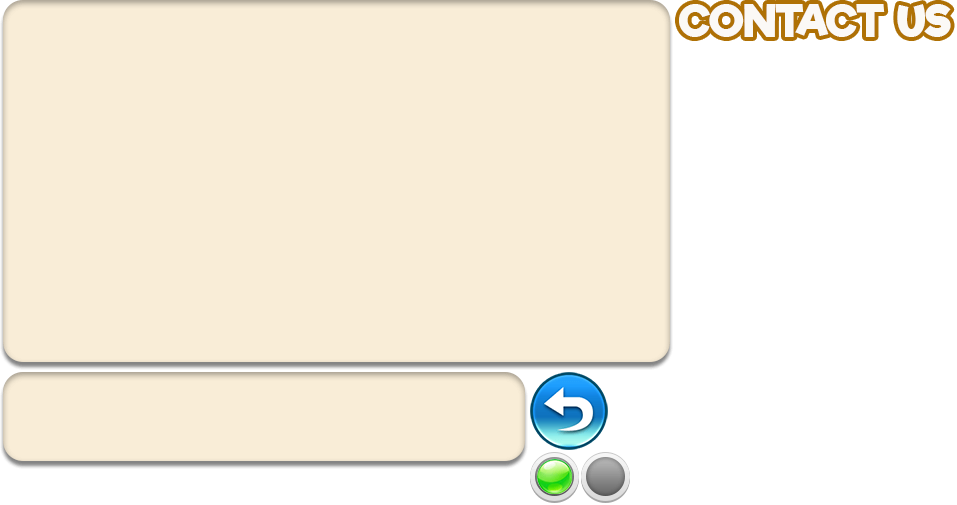
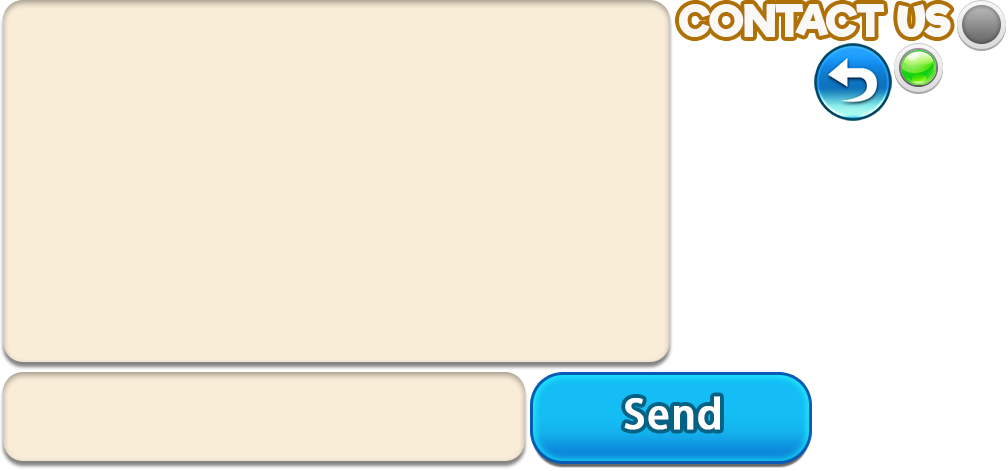
form

Changed region(s): [[0.0, 0.0, 1.0, 1.0]]

diff --git a/src/siene/my/contact-us/contact-us.component.ts b/src/siene/my/contact-us/contact-us.component.ts
@@ -1,14 +1,16 @@
+import { trace } from '../../../service/gameUILogic/trace';
 import { BitmapData } from '../../../basicUI/basic-ui.module';
-import { MainPage, Loading, Trigger, WebPages, User, GM } from '../../../service/dinomao-game.module';
+import { MainPage, Loading, Trigger, WebPages, User, GM, TextData } from '../../../service/dinomao-game.module';
 import { HttpClient } from '@angular/common/http';
 import { Component } from '@angular/core';
+import { FormBuilder, FormGroup } from '@angular/forms';
 /*
  * @Description: 
  * @version: 1.0
  * @Author: Wayne Yu
  * @Date: 2021-10-12 11:32:06
  * @LastEditors: Wayne Yu
- * @LastEditTime: 2021-10-12 15:15:07
+ * @LastEditTime: 2021-10-13 11:20:57
  */
 
 @Component({
@@ -21,12 +23,21 @@ export class ContactUsComponent extends MainPage {
   title!: BitmapData;
   submitBtn!: BitmapData;
 
-  emailAddress: string = "";
-  userName: string = "";
+  formReportItems: FormGroup;
+
+  emailText!: TextData;
+  nameText!: TextData;
+  inputBg1!: BitmapData;
+  inputBg2!: BitmapData;
   
-  constructor(public http: HttpClient ) {
+  constructor(public http: HttpClient, private formBuilder: FormBuilder) {
     super(http);
     this.textureUrl = "assets/contact/contact.json";
+
+    this.formReportItems = this.formBuilder.group({
+      emailAddress: User.instance.email ? User.instance.email: "",
+      userName: User.instance.name
+    });
   }
 
   initUI() {
@@ -34,9 +45,13 @@ export class ContactUsComponent extends MainPage {
 
     this.backBtn = this.textureData.getTexture( "btn_return", 30, 135 );
     this.title = this.textureData.getTexture( "CONTACT US", 265, 147 );
+    this.submitBtn = this.textureData.getTexture( "btn_send", 234, 1450 );
 
-    if( User.instance.email ) this.emailAddress = User.instance.email;
-    this.userName = User.instance.name;
+    this.inputBg1 = this.textureData.getTexture( "bg1", 150, 0 );
+    this.inputBg2 = this.textureData.getTexture( "bg1", 150, 100 );
+
+    this.emailText = this.textureJson.email;
+    this.nameText = this.textureJson.name;
   }
 
   gotoBack(){
@@ -45,8 +60,9 @@ export class ContactUsComponent extends MainPage {
 
   submit(){
     let exp: RegExp = /^\w+([-+.]\w+)*@\w+([-.]\w+)*\.\w+([-.]\w+)*$/;
-    let emailText = document.getElementById( "emailText" );
-    let emailStr = (emailText as HTMLInputElement).value;
+    trace.log( this.formReportItems.value )
+    let emailStr = this.formReportItems.value.emailAddress;
+    trace.log( emailStr );
     let nameText = document.getElementById( "nameText" );
     let nameStr = (nameText as HTMLInputElement).value;
     let inputText = document.getElementById( "inputText" );
@@ -79,5 +95,9 @@ export class ContactUsComponent extends MainPage {
           }
       }));
     }
+  }
+
+  onSubmit(){
+    
   }
 }

diff --git a/src/siene/my/contact-us/contact-us.component.html b/src/siene/my/contact-us/contact-us.component.html
@@ -4,31 +4,31 @@
  * @Author: Wayne Yu
  * @Date: 2021-10-12 11:32:06
  * @LastEditors: Wayne Yu
- * @LastEditTime: 2021-10-12 15:00:42
+ * @LastEditTime: 2021-10-13 11:15:33
 -->
 <div class="contactUsPage" [style.height]="pageHeight + 'px'" [style.background-image]="'url(assets/loading_ui/loading_bg.jpg)'">
   <app-image [imgData]="title"></app-image>
   <app-image-button [imgData]="backBtn" (itemClick)="gotoBack()"></app-image-button>
   <app-image-button [imgData]="submitBtn" (itemClick)="submit()"></app-image-button>
-  <!-- <div class="textShadow">
-    <app-popup-text-field [textData]="gameNameText" [text]="gameNameString"></app-popup-text-field>
-    <app-popup-text-field [textData]="versionText" [text]="versionString"></app-popup-text-field>
-  </div> -->
-  <div class="leftText">
-    <p>email:</p>
-    <p>name:</p>
-  </div>
-  <div class="inputArea">
-    <p><input type="text" class="input" value="{{emailAddress}}" id="emailText"></p>
-    <p><input type="text" class="input" value="{{userName}}" id="nameText"></p>
-  </div>
-  <div class="choise">
-    <p style="text-align: center;">saddadasdsad</p>
-    <p><input type="checkbox" class="checkbox">dawdawaw</p>
-    <p><input type="checkbox" class="checkbox">sdasdasd</p>
-    <p><input type="checkbox" class="checkbox">sfsfasad</p>
-    <p><input type="checkbox" class="checkbox">sfasfsaf</p>
-    <p>sfasfsaf</p>
-    <p><input type="text" class="textArea" id="inputText"></p>
-  </div>
+  <form [formGroup]="formReportItems" (ngSubmit)="onSubmit()">
+    <div class="leftText">
+      <app-popup-text-field [textData]="emailText" [text]="'Email'"></app-popup-text-field>
+      <app-popup-text-field [textData]="nameText" [text]="'Name'"></app-popup-text-field>
+      <app-image [imgData]="inputBg1"></app-image>
+      <app-image [imgData]="inputBg2"></app-image>
+    </div>
+    <div class="inputArea">
+      <p><input type="text" class="input" formControlName="emailAddress" id="emailTextInput"></p>
+      <p><input type="text" class="input" formControlName="userName" id="nameTextInput"></p>
+    </div>
+    <div class="choise">
+      <p style="text-align: center;">saddadasdsad</p>
+      <p><input type="checkbox" class="checkbox">dawdawaw</p>
+      <p><input type="checkbox" class="checkbox">sdasdasd</p>
+      <p><input type="checkbox" class="checkbox">sfsfasad</p>
+      <p><input type="checkbox" class="checkbox">sfasfsaf</p>
+      <p>sfasfsaf</p>
+      <p><input type="text" class="textArea" id="inputText"></p>
+    </div>
+  </form>
 </div>

diff --git a/src/app/app.module.ts b/src/app/app.module.ts
@@ -4,11 +4,12 @@
 * @Author: Wayne Yu
 * @Date: 2021-05-26 13:31:20
  * @LastEditors: Wayne Yu
- * @LastEditTime: 2021-10-12 11:33:00
+ * @LastEditTime: 2021-10-13 11:25:33
 */
 import { NgModule } from '@angular/core';
 import { BrowserModule } from '@angular/platform-browser';
-import { BrowserAnimationsModule } from '@angular/platform-browser/animations'
+import { BrowserAnimationsModule } from '@angular/platform-browser/animations';
+import { ReactiveFormsModule } from '@angular/forms';
 import { HttpClientModule } from '@angular/common/http';
 
 import { BasicUiModule } from '../basicUI/basic-ui.module';
@@ -49,7 +50,7 @@ import { SoundAndLogoutComponent } from '../siene/my/sound-and-logout/sound-and-
 import { LogoutComponent } from '../popups/Logout/Logout.component';
 import { PurchaseSuccessComponent } from '../popups/purchase-success/purchase-success.component';
 import { VipLevelListComponent } from '../siene/shop/vip-level-list/vip-level-list.component';
-import { ContactUsComponent } from './../siene/my/contact-us/contact-us.component';
+import { ContactUsComponent } from '../siene/my/contact-us/contact-us.component';
 
 @NgModule({
   declarations: [
@@ -94,6 +95,7 @@ import { ContactUsComponent } from './../siene/my/contact-us/contact-us.componen
     BrowserModule,
     HttpClientModule,
     BrowserAnimationsModule,
+    ReactiveFormsModule,
     BasicUiModule,
     DinomaoGameModule
   ],

diff --git a/src/siene/my/contact-us/contact-us.component.css b/src/siene/my/contact-us/contact-us.component.css
@@ -5,11 +5,8 @@
     background-size:100% 100%;
 }
 .leftText{
-    left: 100px;
+    left: 40px;
     top: 250px;
-    text-align: left;
-    font-size: 45px;
-    color: white;
 }
 .inputArea{
     left: 300px;
@@ -21,6 +18,11 @@
     height: 50px;
     width: 250px;
     font-size: 45px;
+    border:none;
+    background-color: transparent;
+}
+.input:focus{
+    border:none;
 }
 .checkbox{
     height: 50px;
